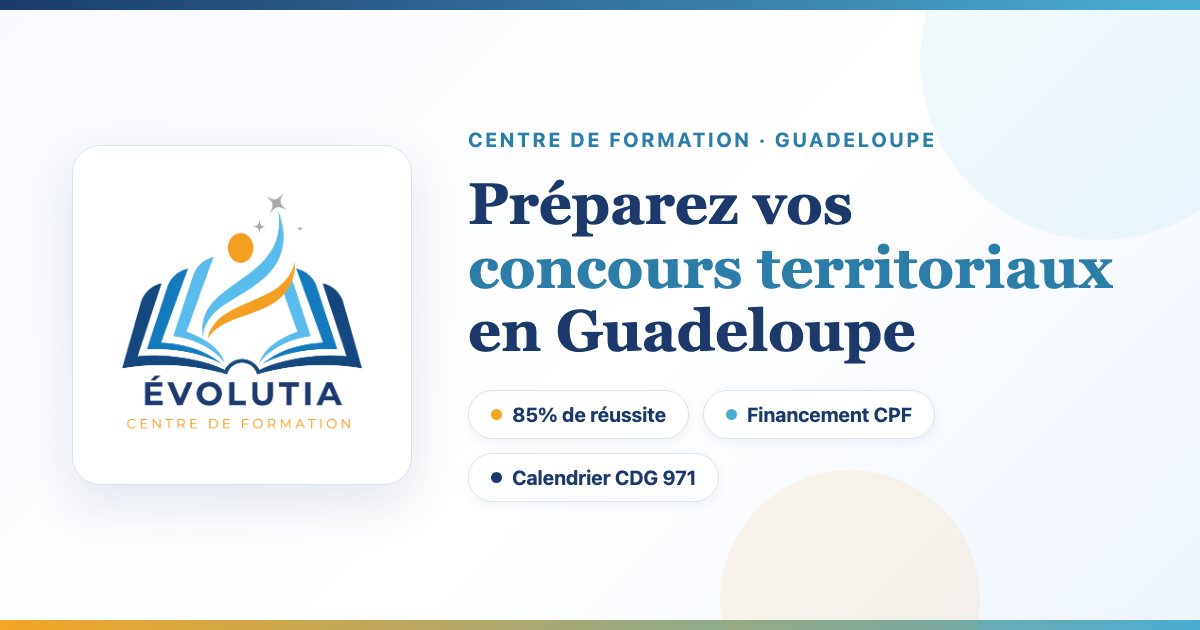
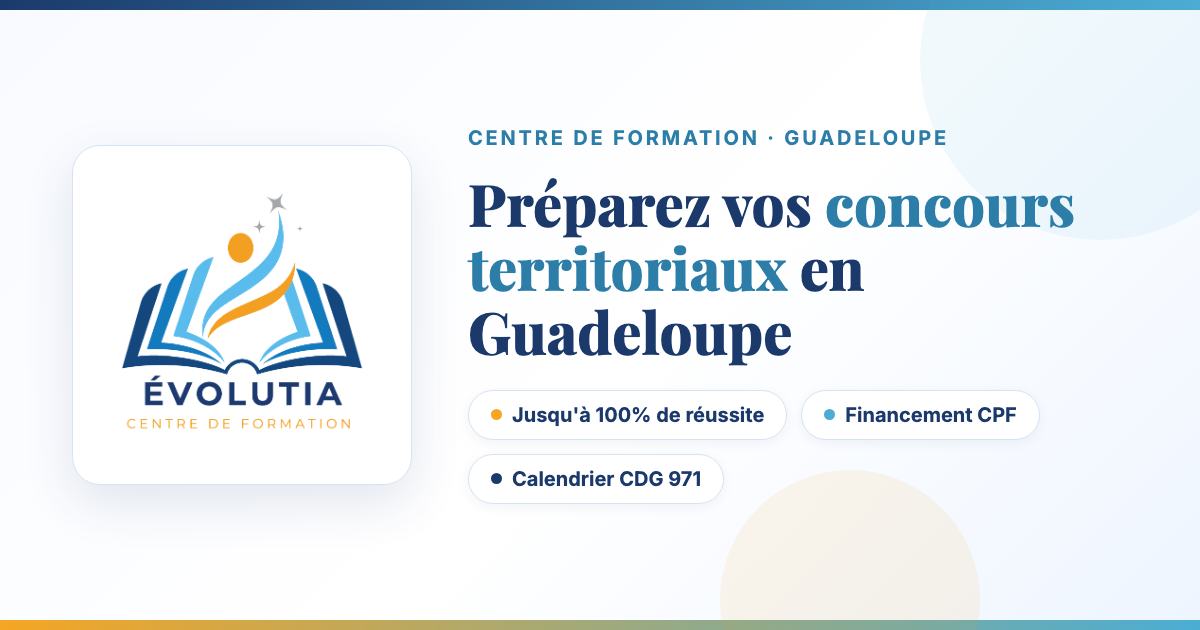
fix: taux de réussite récents (résultats 2026) au lieu du 85% 2023 global (#9)
* fix(accueil): remplacer le 85% de réussite 2023 par les résultats 2026

* fix(seo): meta description -> résultats 2026 (au lieu de 85% 2023)

* fix(og): bannière -> Jusqu'à 100% de réussite (au lieu de 85%)

Remplace le taux global 85% de 2023 (non sourcé) par les résultats réels 2026
par concours (100% Agent de Maîtrise dans le hero, 8 lauréats/15 en Ingénieur
dans le bandeau) + meta et bannière OG cohérentes.

---------

Changed region(s): [[0.37, 0.2714, 0.925, 0.573], [0.4008, 0.6333, 0.8633, 0.8143], [0.37, 0.181, 0.8017, 0.2413]]

diff --git a/app/HomeClient.tsx b/app/HomeClient.tsx
@@ -164,8 +164,8 @@ export default function Home() {
             {/* Stats highlight */}
             <div className="hero-stats" style={{ display: "inline-flex", gap: 24, background: "rgba(255,255,255,0.07)", border: "1px solid rgba(75,173,212,0.25)", borderRadius: 12, padding: "16px 24px", marginBottom: 40 }}>
               <div style={{ textAlign: "center" }}>
-                <div style={{ fontSize: 32, fontWeight: 800, color: "#F5A623", fontFamily: "monospace" }}>85%</div>
-                <div style={{ fontSize: 11, color: "rgba(255,255,255,0.6)", fontWeight: 500 }}>de réussite 2023</div>
+                <div style={{ fontSize: 32, fontWeight: 800, color: "#F5A623", fontFamily: "monospace" }}>100%</div>
+                <div style={{ fontSize: 11, color: "rgba(255,255,255,0.6)", fontWeight: 500 }}>réussite Agent de Maîtrise 2026</div>
               </div>
               <div className="hero-stat-sep" style={{ width: 1, background: "rgba(255,255,255,0.15)" }} />
               <div style={{ textAlign: "center" }}>
@@ -210,7 +210,7 @@ export default function Home() {
       <section style={{ background: "white", borderBottom: "1px solid #D6E4F0", padding: "0" }}>
         <div style={{ maxWidth: 1200, margin: "0 auto", display: "grid", gridTemplateColumns: "repeat(3, 1fr)" }}>
           {[
-            { val: "85%", label: "Taux de réussite 2023", color: "#F5A623" },
+            { val: "8/15", label: "lauréats Ingénieur 2026", color: "#F5A623" },
             { val: String(FORMATIONS_LIST.length), label: "Formations disponibles", color: "#4BADD4" },
             { val: "15", label: "Avis Google (4,7★)", color: "#1B3A6B" },
           ].map((s, i) => (

diff --git a/app/layout.tsx b/app/layout.tsx
@@ -4,7 +4,7 @@ import "./globals.css";
 
 const TITLE = "Evolutia Formation | Préparation Concours Territoriaux en Guadeloupe";
 const DESCRIPTION =
-  "Centre de formation à Grand-Camp, Les Abymes. Préparez les concours d'ingénieur, technicien et rédacteur territorial. 85% de réussite en 2023. Financement CPF.";
+  "Centre de formation à Grand-Camp, Les Abymes. Préparez les concours territoriaux en Guadeloupe. Résultats 2026 : jusqu'à 100% de réussite. Financement CPF.";
 
 // Données structurées communes à tout le site (identité de l'organisme + site web).
 // Coordonnées et note reprises du contenu affiché (Footer + section avis).
